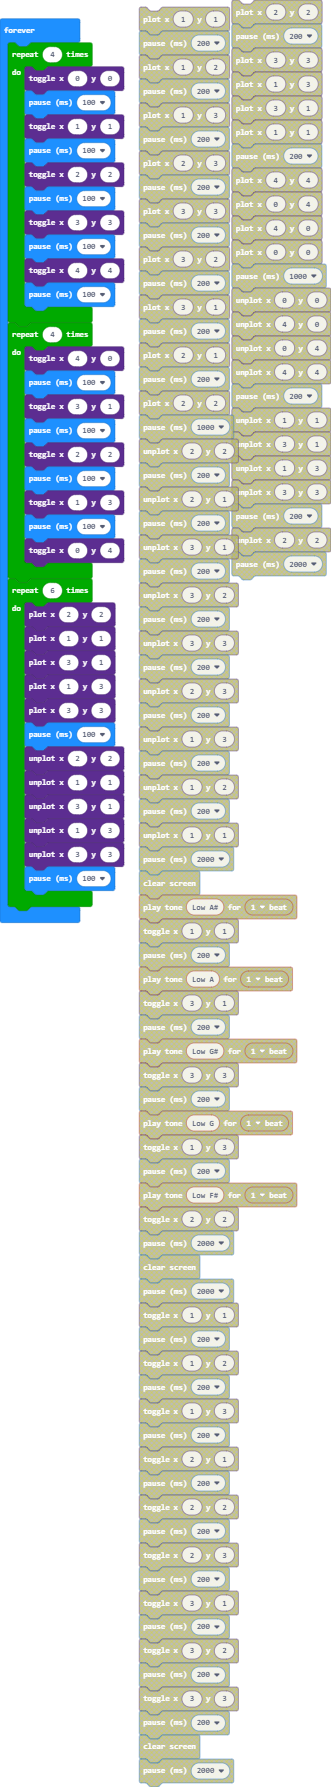
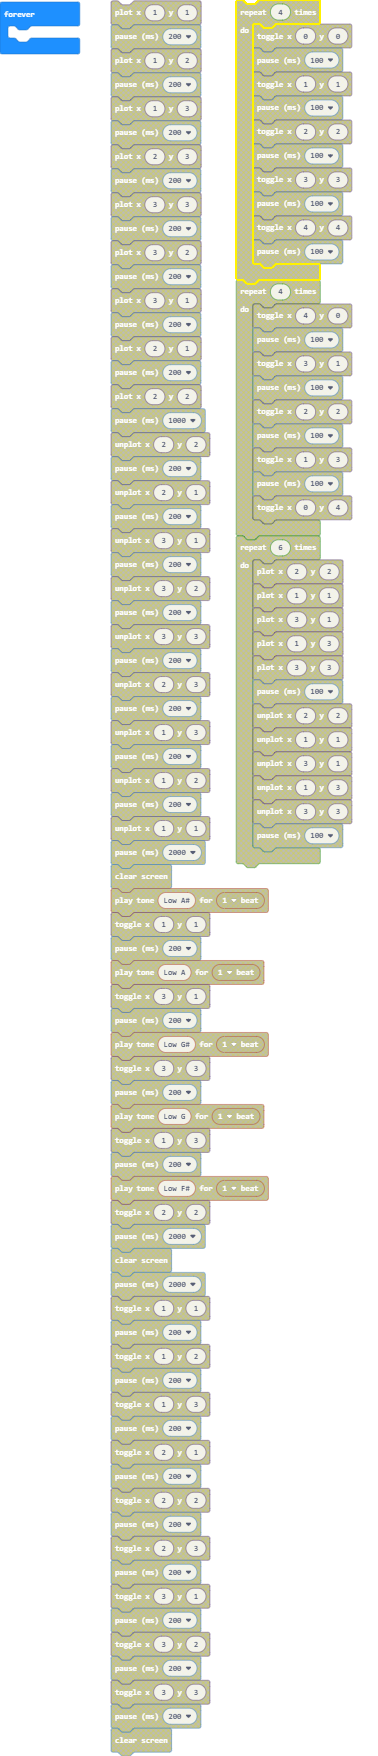
Update main.blocks, main.ts

diff --git a/main.ts b/main.ts
@@ -1,39 +1,3 @@
 basic.forever(function () {
-    for (let index = 0; index < 4; index++) {
-        led.toggle(0, 0)
-        basic.pause(100)
-        led.toggle(1, 1)
-        basic.pause(100)
-        led.toggle(2, 2)
-        basic.pause(100)
-        led.toggle(3, 3)
-        basic.pause(100)
-        led.toggle(4, 4)
-        basic.pause(100)
-    }
-    for (let index = 0; index < 4; index++) {
-        led.toggle(4, 0)
-        basic.pause(100)
-        led.toggle(3, 1)
-        basic.pause(100)
-        led.toggle(2, 2)
-        basic.pause(100)
-        led.toggle(1, 3)
-        basic.pause(100)
-        led.toggle(0, 4)
-    }
-    for (let index = 0; index < 6; index++) {
-        led.plot(2, 2)
-        led.plot(1, 1)
-        led.plot(3, 1)
-        led.plot(1, 3)
-        led.plot(3, 3)
-        basic.pause(100)
-        led.unplot(2, 2)
-        led.unplot(1, 1)
-        led.unplot(3, 1)
-        led.unplot(1, 3)
-        led.unplot(3, 3)
-        basic.pause(100)
-    }
+	
 })
